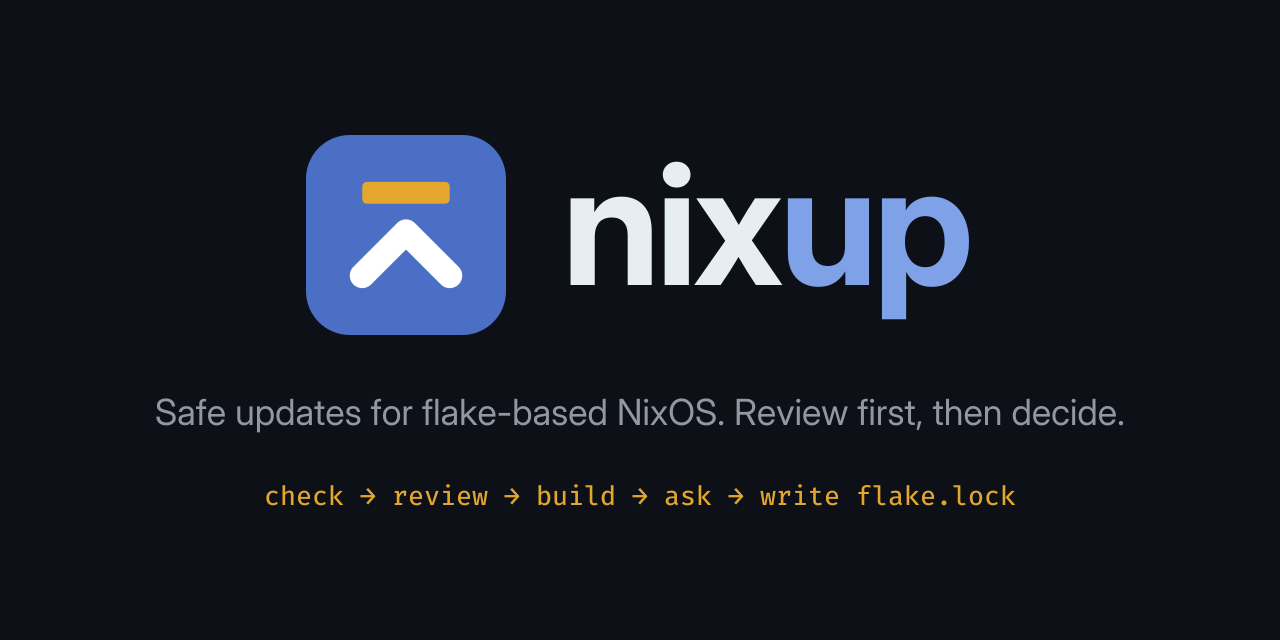
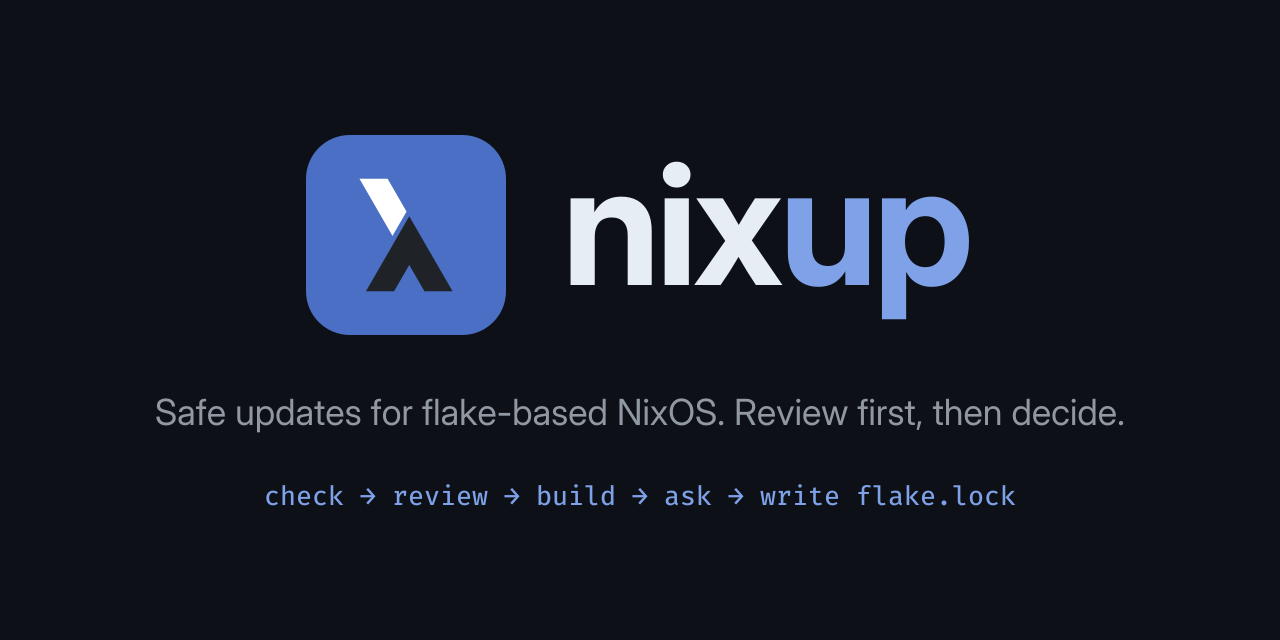
docs(brand): replace the mark with a lambda whose lower half is an up arrow
The tail and the arrow are separate closed shapes with a gap: read whole it is a lambda,
read in parts it is "nix" and "up". Drawn from scratch, not taken from the NixOS logo.
The mark comes on the blue tile (logo.svg) and without it for light and dark
backgrounds (mark-light.svg, mark-dark.svg); the headers use the bare version. Amber
is gone from the palette; brand.md documents the geometry.

Changed region(s): [[0.2188, 0.75, 0.8125, 0.8125], [0.25, 0.2812, 0.375, 0.4688]]

diff --git a/brand/brand.md b/brand/brand.md
@@ -9,54 +9,50 @@ A short reference for anyone making a README, a slide, a badge or CLI text for n
 - Pronounced "nix up" (/nɪks ʌp/), like "fix up".
 - "nix" is the ecosystem it works in; "up" is what it does: bring things up to date.
 
-## Concept: the held update
+## Concept: the lambda that goes up
 
-The mark is an upward chevron (an update) stopped below a short bar (a gate). The
-update is ready, but it waits until you have looked at it and said yes. That is the
-whole product: nixup shows what changed upstream, builds in a scratch copy and asks
-before it writes anything.
+The mark is a lambda (λ) drawn so that its lower half is an upward arrow (Λ). The tail
+and the arrow are separate pieces with a small gap between them: read as a whole it is
+the Nix lambda, read in parts it is "Nix" and "up". That is the name.
 
-The bar is also a terminal cursor, square-ended like a block cursor, waiting for your
-input at a `[y/N]` prompt. It is amber because amber is the colour nixup uses for
-"look at this": major version jumps and pending questions.
+Geometry, on a 64-unit grid (the SVGs are generated from these numbers):
 
-Why not the other motifs: an arrow alone says "update" but not "careful"; a layered
-copy needs too much detail to survive 16 px; a bare prompt (`>_`) says "terminal tool"
-and nothing about this one. The held chevron carries both "update" and "review first"
-in two shapes.
+- Both legs of the arrow and the tail run at 60° from the horizontal.
+- Every end is cut horizontally; every corner is sharp. No round caps, no strokes: the
+  shapes are closed polygons.
+- Stroke width 9 units (measured horizontally), gap 3 units.
+- The tail is half the height of the arrow (12 and 24 units). Its right edge is in line
+  with the arrow's right outer edge, so the lambda reads as one letter.
+- The gap between tail and arrow runs parallel to the arrow's upper-left edge.
 
-The shape is original and has nothing to do with the NixOS snowflake. The only nod to
-the Nix ecosystem is the blue. Do not add snowflakes, lambdas or hexagons to it.
+The lambda is drawn from scratch. It is not the NixOS snowflake nor any part of it, and
+it must not be combined with it: the NixOS logo is a registered trademark and its guide
+forbids altering or recombining its lambdas.
 
 ## Colour
 
-One primary, one accent, GitHub-compatible neutrals. Contrast ratios are WCAG 2.x.
+One primary, GitHub-compatible neutrals, no accent colour. Contrast ratios are WCAG 2.x.
 
 | Name | Hex | Role | Contrast |
 |---|---|---|---|
-| Gate blue | `#4A6FC4` | Primary. Logo tile; "up" in the light wordmark; links and highlights on light backgrounds | 4.81:1 on `#FFFFFF` (AA text). 3.93:1 on `#0D1117` (graphics and large text only) |
-| Gate blue, light | `#7EA1E8` | Primary on dark backgrounds: "up" in the dark wordmark, links, highlights | 7.34:1 on `#0D1117` (AA, nearly AAA) |
-| Review amber | `#E3A62F` | Accent. The gate bar; warnings and prompts on dark backgrounds | 8.80:1 on `#0D1117`. 2.15:1 on white: **never use it for text on light** |
-| Review amber, dark | `#9A6700` | Accent as text on light backgrounds | 4.87:1 on `#FFFFFF` (AA) |
-| Ink | `#1F2328` | Text on light | 15.80:1 on `#FFFFFF` |
+| Blue | `#4A6FC4` | Primary. Logo tile; the tail on light backgrounds; "up" in the light wordmark; links | 4.81:1 on `#FFFFFF` (AA text). 3.93:1 on `#0D1117` (graphics and large text only) |
+| Blue, light | `#7EA1E8` | Primary on dark backgrounds: the tail, "up" in the dark wordmark, links | 7.34:1 on `#0D1117` (AA, nearly AAA) |
+| Ink | `#1F2328` | Text on light; the arrow on light backgrounds and on the tile | 15.80:1 on `#FFFFFF` |
 | Ink muted | `#59636E` | Secondary text on light (taglines, captions) | 6.11:1 on `#FFFFFF` |
-| Snow | `#E6EDF3` | Text on dark | 16.02:1 on `#0D1117` |
+| Snow | `#E6EDF3` | Text on dark; the arrow on dark backgrounds | 16.02:1 on `#0D1117` |
 | Snow muted | `#9198A1` | Secondary text on dark | 6.50:1 on `#0D1117` |
 | Night | `#0D1117` | Dark background (same as GitHub dark) | n/a |
 | Paper | `#FFFFFF` | Light background | n/a |
 
-Inside the mark: the white chevron on Gate blue is 4.81:1. The amber bar on blue is only
-2.24:1, so the mark never relies on that pair alone; the shape stays readable in one
-colour (see `logo-mono.svg`).
-
-The blue tile is 4.81:1 against white and 3.93:1 against Night, which is why the same
-colour logo works on both GitHub themes without a variant.
+Inside the tile: the white tail on Blue is 4.81:1 and the Ink arrow on Blue is 3.28:1,
+both above the 3:1 WCAG minimum for graphics. The mark also reads in one colour, because
+the gap carries the shape (see `logo-mono.svg`).
 
 ## Typography
 
 | Use | Family | Weight | Notes |
 |---|---|---|---|
-| Wordmark | Inter | Bold 700 | Outlined in the SVGs, letter-spacing -2.5 %. "nix" in Ink or Snow, "up" in Gate blue or Gate blue light |
+| Wordmark | Inter | Bold 700 | Outlined in the SVGs, letter-spacing -2.5 %. "nix" in Ink or Snow, "up" in Blue or Blue light |
 | Taglines, headings, prose | Inter | Regular 400 / SemiBold 600 | |
 | Commands, CLI output, file names | Fira Code | Regular 400 to Medium 500 | Used for the steps line in `social.svg` |
 
@@ -69,34 +65,38 @@ Google Sans Flex is not used in brand assets.
 
 ## Logo usage
 
-**Parts.** The mark (`logo.svg`) and the lockup: mark + wordmark + tagline (the headers).
-The wordmark is never used without the mark, except in running text where it is just
-the name.
+**Parts.** The mark comes in two versions, with and without the tile, and the lockup is
+mark + wordmark + tagline (the headers). The wordmark is never used without the mark,
+except in running text where it is just the name.
 
-**Clear space.** Around the mark: at least 1/4 of the mark width (16 units on its 64-unit
-grid). In the lockup, the gap between mark and wordmark is 0.3 × the mark height.
+**Clear space.** Around the mark: at least 1/4 of its width. In the lockup, the gap
+between mark and wordmark is about 0.3 × the mark height.
 
 **Minimum size.** Mark: 16 px (favicon); prefer 24 px or more in UI. Lockup: 160 px wide;
 below that, use the mark alone.
 
-**Colour versions.**
-- `logo.svg`: full colour. Works on white, Night, and mid-grey backgrounds.
-- `logo-mono.svg`: one colour, `fill="currentColor"`, chevron and bar cut out of the tile.
-  Inline it (or use it where the host sets `color`) for favicons, badges and docs. Loaded
-  through `<img>` it renders black, which is invisible on dark backgrounds: there, use
-  `logo.svg`.
+**Versions.**
+- `logo.svg`: on the Blue tile (white tail, Ink arrow). App icon, avatar, favicon,
+  social image. Works on light and dark backgrounds.
+- `mark-light.svg` / `mark-dark.svg`: without the tile, for light (Blue tail, Ink arrow)
+  and dark (Blue light tail, Snow arrow) backgrounds. Used in the headers. Pair them with
+  `<picture>` and `prefers-color-scheme`.
+- `logo-mono.svg`: one colour, `fill="currentColor"`, no tile. Inline it (or use it where
+  the host sets `color`) for badges, docs and print. Loaded through `<img>` it renders
+  black, which is invisible on dark backgrounds.
 
 **Do**
 - Use the files as they are; scale them proportionally.
-- Use `header-light.svg` / `header-dark.svg` together through `<picture>` and
-  `prefers-color-scheme`.
-- Keep the gate bar above the chevron, with the gap.
+- Keep the gap between the tail and the arrow.
+- Use the tile version where the mark stands alone; the bare version next to the wordmark.
 
 **Don't**
-- Remove the gate bar or close the gap; the mark then becomes a generic "up" arrow.
-- Swap the colours (amber tile, blue bar), add gradients, shadows, outlines or glows.
-- Rotate the chevron, add a shaft to it, or animate it "launching".
-- Put the colour logo on a mid-blue or amber background where the tile disappears.
+- Close the gap or give the two pieces round ends; it then becomes a plain λ or a
+  rounded doodle.
+- Recolour the pieces (the arrow is always Ink or Snow, the tail always Blue or white),
+  add gradients, shadows, outlines or glows.
+- Rotate, mirror or stretch the mark, or lengthen the tail.
+- Put the tile on a mid-blue background where it disappears.
 - Rewrite the wordmark in another font, capitalise it, or colour all of it blue.
 - Combine the mark with the NixOS snowflake or present nixup as an official NixOS project.
 
@@ -137,8 +137,10 @@ nixup reads like a careful colleague reporting what they found. Rules:
 
 | File | What | Size (approx.) |
 |---|---|---|
-| `logo.svg` | Mark, full colour, transparent background, 64-unit viewBox | 0.4 KB |
-| `logo-mono.svg` | Mark, one colour (`currentColor`), single path | 0.5 KB |
+| `logo.svg` | Mark on the Blue tile, 64-unit viewBox | 0.4 KB |
+| `mark-light.svg` | Mark without tile, for light backgrounds | 0.3 KB |
+| `mark-dark.svg` | Mark without tile, for dark backgrounds | 0.3 KB |
+| `logo-mono.svg` | Mark without tile, one colour (`currentColor`), single path | 0.3 KB |
 | `header-light.svg` | README banner for light themes, 1280×320, transparent background | 14 KB |
 | `header-dark.svg` | README banner for dark themes, 1280×320, transparent background | 14 KB |
 | `social.svg` | Source of the social preview, 1280×640, Night background | 21 KB |
